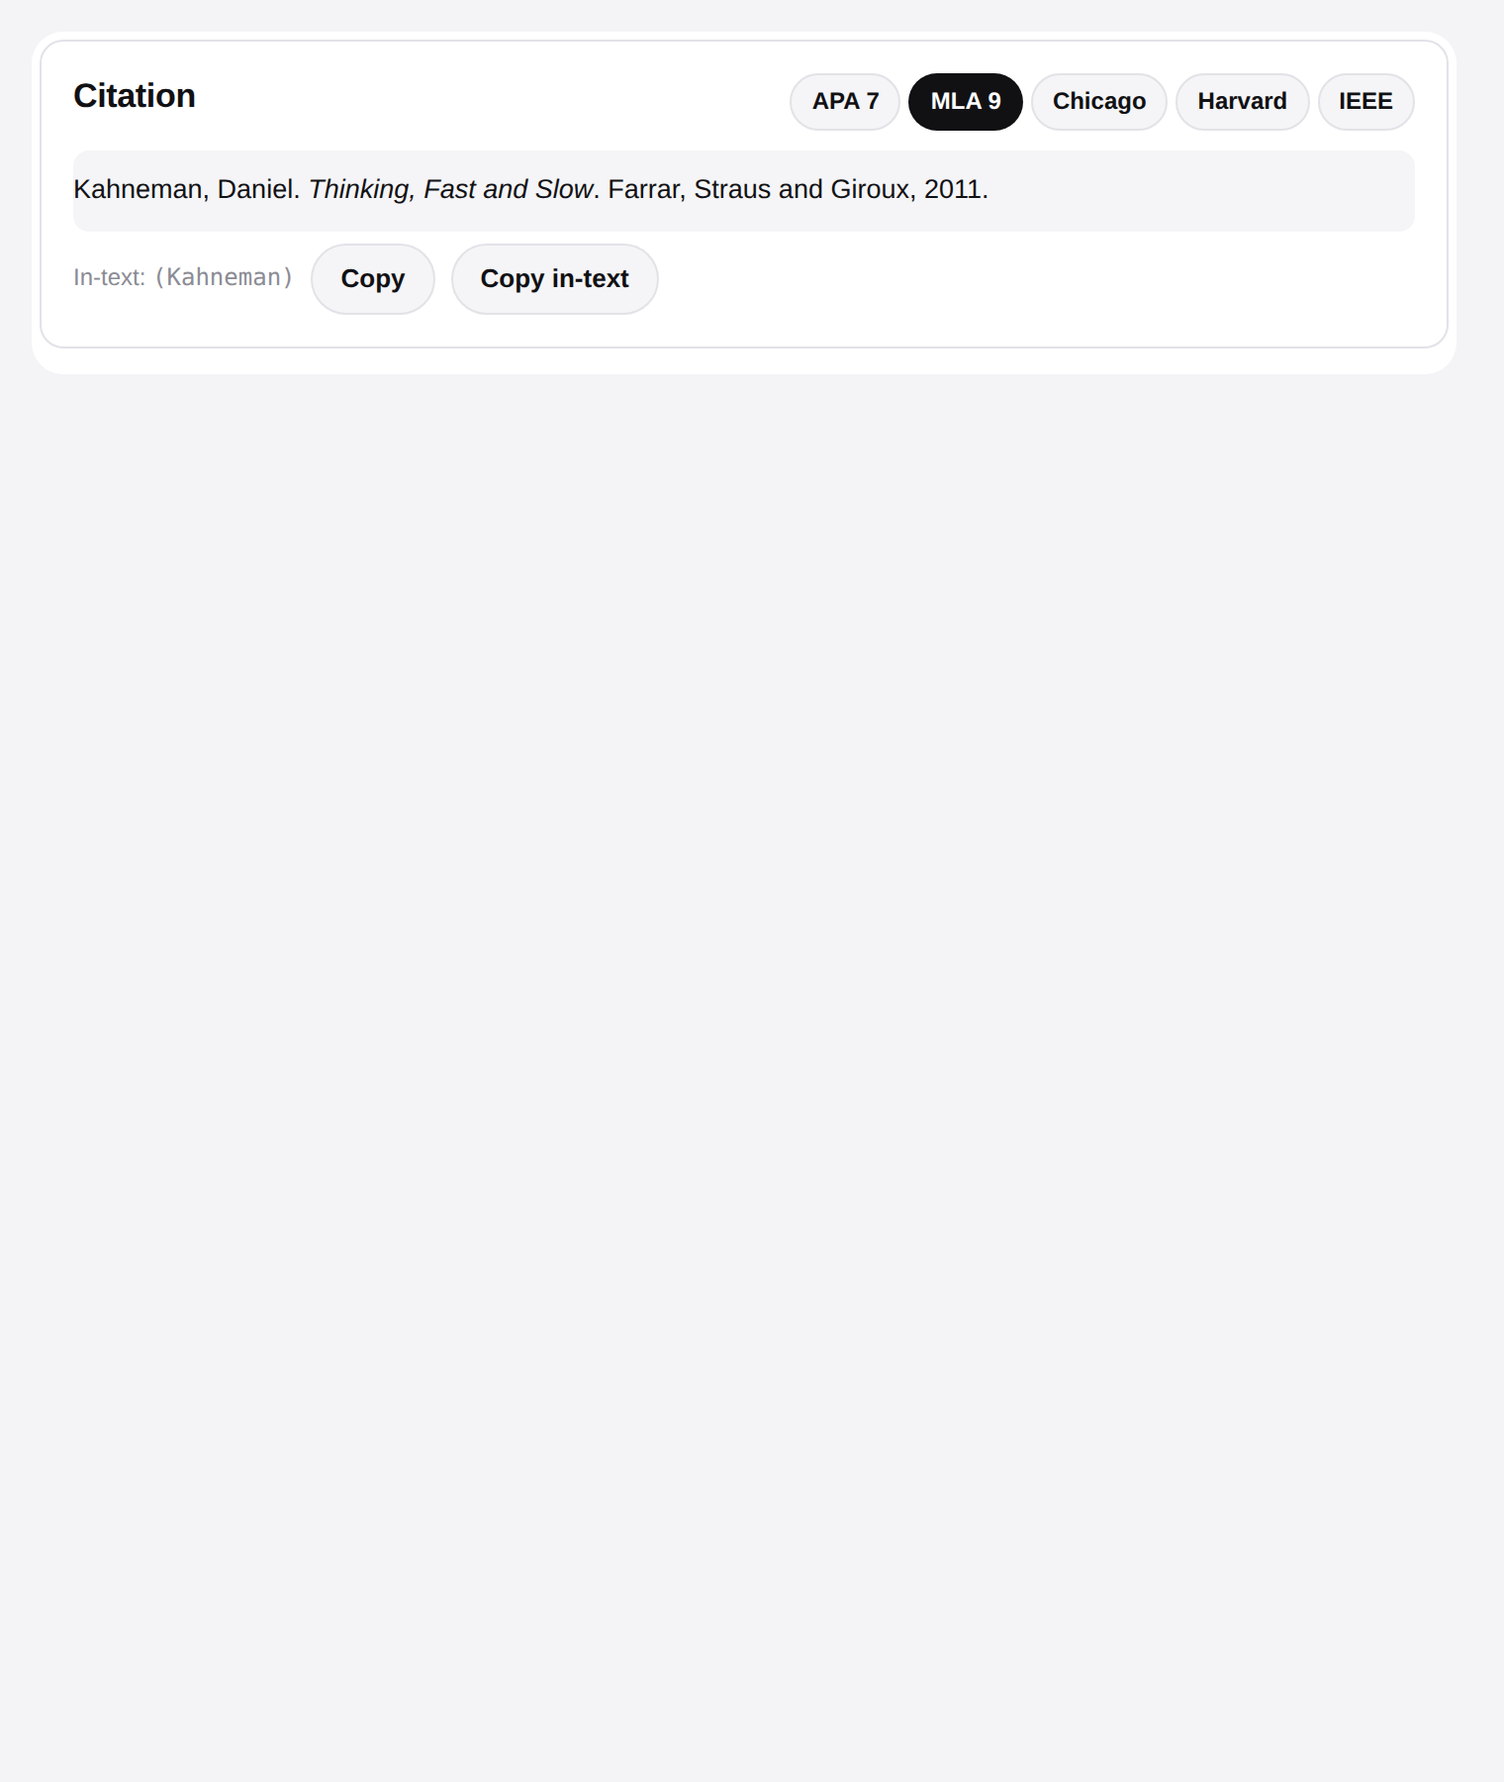
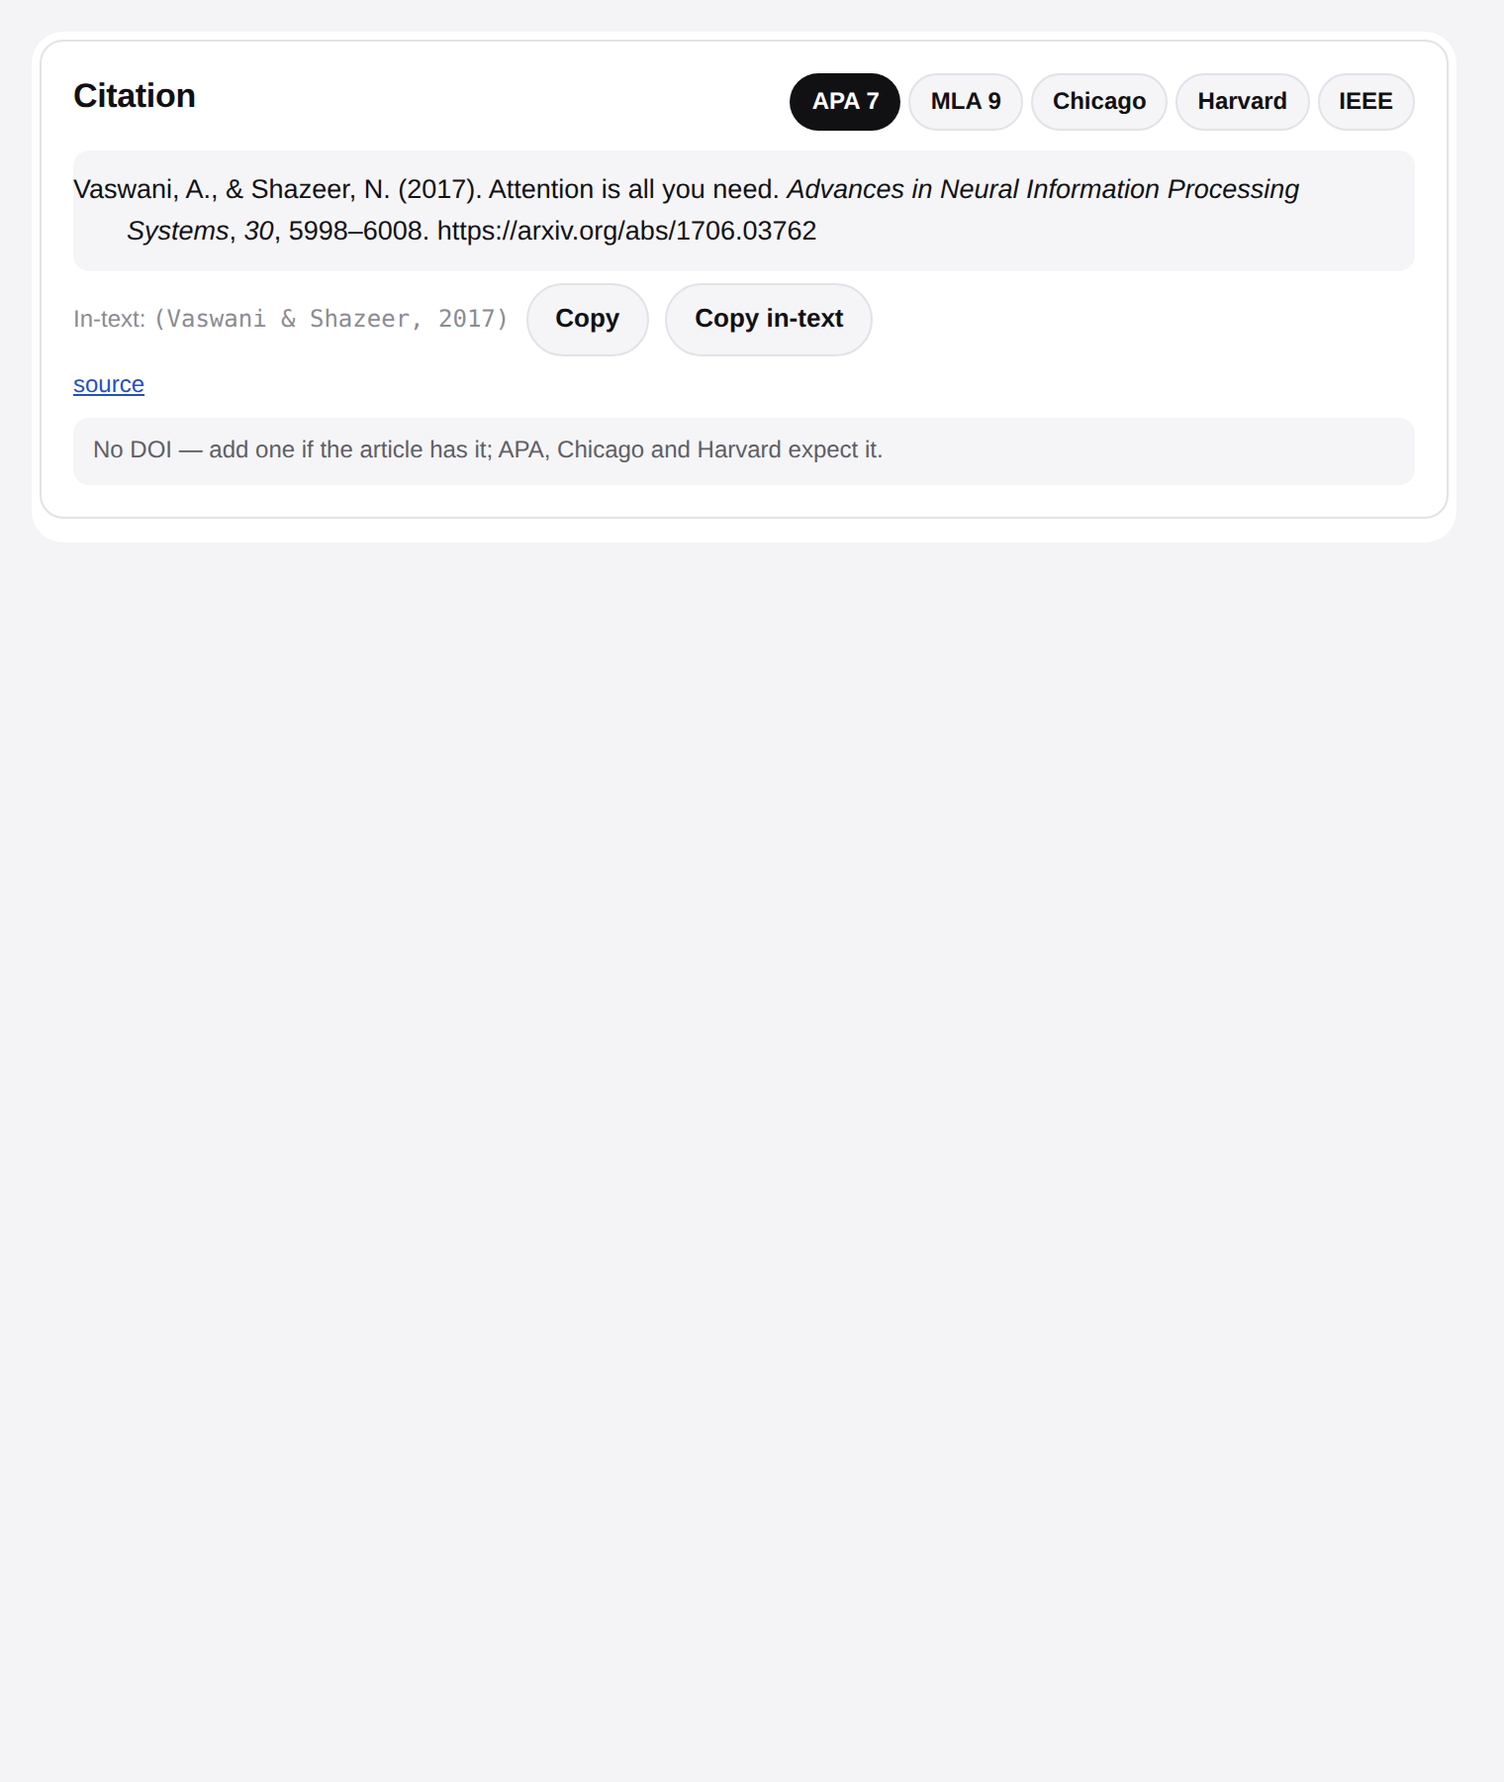
Lead Verified Citations with reference checking
Formatting alone now overlaps native ChatGPT and OpenAI's Zotero plugin
(Oct 2026); checking whether references are real is still uncontested,
so the app's metadata now leads with that job.

- Subtitle "Check if references are real"; app description opens with
  verification and calls out AI-written bibliographies.
- verify_references is registered first and its description covers the
  phrases people use ("are these sources real", "did ChatGPT make these
  up", "check my references before I submit").
- format_citation is narrowed to user-supplied details and routes
  anything from memory to lookup_reference; lookup_reference retitled
  "Find the real paper or book".
- Zotero-library requests explicitly excluded; submission JSON swaps the
  DOI-lookup case for an AI-generated source list and the grammar
  negative for a Zotero-library negative (still 5 positive / 3 negative).
- Version 1.1.0; citations screenshots regenerated.

Claude-Session: https://claude.ai/code/session_01DhZseDquTDQ5Xi2zTahsrr

diff --git a/chatgpt-apps/src/apps/citations/server.ts b/chatgpt-apps/src/apps/citations/server.ts
@@ -56,11 +56,11 @@ interface ExportPayload { refs: Reference[]; format: "bibtex" | "ris" | "txt"; s
 export const citationsApp = defineApp({
   slug: "citations",
   name: "Verified Citations",
-  version: "1.0.0",
-  subtitle: "Checked APA/MLA citations",
+  version: "1.1.0",
+  subtitle: "Check if references are real",
   category: "EDUCATION",
   description:
-    "Formats citations in APA 7, MLA 9, Chicago, Harvard and IEEE from real bibliographic data, looks papers up in Crossref and OpenAlex by title or DOI, flags references that don't exist, and exports BibTeX/RIS. Built to stop invented references: every lookup result links to a resolvable DOI.",
+    "Checks whether references are real. Paste a bibliography — including one ChatGPT or another AI wrote — and each entry is matched against Crossref and OpenAlex (170M+ scholarly records) and marked verified, likely or not found, with the real DOI and a corrected citation. Also finds the real paper behind a half-remembered title, formats APA 7, MLA 9, Chicago, Harvard and IEEE, and exports BibTeX/RIS.",
   files: {
     export: (p: ExportPayload) => {
       const body = p.format === "bibtex" ? toBibtex(p.refs) : p.format === "ris" ? toRis(p.refs) : p.refs.map((r) => format(r, p.style).text).sort().join("\n\n") + "\n";
@@ -69,13 +69,13 @@ export const citationsApp = defineApp({
     },
   },
   samples: [
+    { tool: "verify_references", args: { references: ["LeCun, Y., Bengio, Y., & Hinton, G. (2015). Deep learning. Nature, 521(7553), 436-444.", "Smith, J. (2021). Quantum gardening for beginners. Journal of Imaginary Botany, 12(3), 45-67."], style: "apa" } },
     {
       tool: "format_citation",
       args: { style: "apa", reference: { type: "journal-article", authors: [{ family: "Vaswani", given: "Ashish" }, { family: "Shazeer", given: "Noam" }], title: "Attention is all you need", containerTitle: "Advances in Neural Information Processing Systems", year: 2017, volume: "30", pages: "5998-6008", url: "https://arxiv.org/abs/1706.03762" } },
     },
     { tool: "format_citation", args: { style: "mla", reference: { type: "book", authors: [{ family: "Kahneman", given: "Daniel" }], title: "Thinking, Fast and Slow", publisher: "Farrar, Straus and Giroux", place: "New York", year: 2011 } } },
     { tool: "lookup_reference", args: { query: "10.1038/nature14539", style: "apa" } },
-    { tool: "verify_references", args: { references: ["LeCun, Y., Bengio, Y., & Hinton, G. (2015). Deep learning. Nature, 521(7553), 436-444."], style: "apa" } },
     { tool: "export_bibliography", args: { format: "bibtex", references: [{ type: "journal-article", authors: [{ family: "LeCun", given: "Yann" }], title: "Deep learning", containerTitle: "Nature", year: 2015, volume: "521", issue: "7553", pages: "436-444", doi: "10.1038/nature14539" }] } },
     { tool: "format_citation", args: { style: "apa", reference: { type: "book", authors: [], title: "" } }, expectError: true },
   ],
@@ -84,81 +84,15 @@ export const citationsApp = defineApp({
       uri: WIDGET_URI,
       name: "Citations widget",
       html: widgetHtml("citations"),
-      description: "Shows formatted citations with a style switcher, copy buttons, verification badges (verified / likely / not found) with DOI links, and export downloads. Don't repeat the full citations; summarize status.",
+      description: "Shows reference-check results with verified / likely / not-found badges and DOI links, plus formatted citations with a style switcher, copy buttons and export downloads. Summarize which references could not be verified; don't repeat the full citations.",
     });
-
-    server.registerTool(
-      "format_citation",
-      {
-        title: "Format a citation",
-        description:
-          "Use this when the user has the details of a source and wants it cited correctly — e.g. \"cite this in APA\", \"MLA citation for this book\", \"format this reference in Chicago style\", \"give me the in-text citation\". Produces the reference-list entry and in-text form in APA 7, MLA 9, Chicago 17, Harvard and IEEE from structured fields. If the user only has a title or DOI, use lookup_reference first so the details are real.",
-        inputSchema: {
-          reference: referenceSchema,
-          style: styleEnum.describe("Primary style to show"),
-        },
-        outputSchema: {
-          view: z.literal("citation"),
-          style: styleEnum,
-          entry: formattedSchema,
-          styles: allStylesSchema,
-          reference: refOutSchema,
-          tips: z.array(z.string()),
-        },
-        annotations: READ_ONLY,
-        _meta: uiToolMeta(WIDGET_URI, { invoking: "Formatting citation", invoked: "Citation formatted" }),
-      },
-      async ({ reference, style }) => {
-        try {
-          if (!reference.title.trim()) return fail("title is required");
-          const styles = formatAll(reference as Reference);
-          const structured = { view: "citation" as const, style, entry: styles[style], styles, reference: refOut(reference as Reference), tips: tips(reference as Reference) };
-          return ok(`${STYLE_LABEL[style]} reference: ${styles[style].text}\nIn-text: ${styles[style].inText}${structured.tips.length ? `\nNotes: ${structured.tips.join(" ")}` : ""}\nThe widget shows all five styles with copy buttons.`, structured);
-        } catch (e) {
-          return fail((e as Error).message);
-        }
-      },
-    );
-
-    server.registerTool(
-      "lookup_reference",
-      {
-        title: "Look up a paper or book",
-        description:
-          "Use this when the user wants a citation but only has a title, author/year, DOI or a half-remembered reference — e.g. \"cite the 2015 Nature deep learning paper by LeCun\", \"find the DOI for Attention Is All You Need\", \"APA citation for this DOI\", \"is this a real paper?\". Searches Crossref and OpenAlex (170M+ records) and returns real metadata with a resolvable DOI, formatted in the chosen style. Never invent a citation when this tool is available.",
-        inputSchema: {
-          query: z.string().min(3).max(500).describe("Title, DOI, or free-text reference"),
-          style: styleEnum.optional().describe("Default apa"),
-          rows: z.number().int().min(1).max(10).optional().describe("Max candidates (default 5)"),
-        },
-        outputSchema: {
-          view: z.literal("lookup"),
-          query: z.string(),
-          style: styleEnum,
-          candidates: z.array(z.object({ score: z.number(), source: z.string(), citedBy: z.number().optional(), reference: refOutSchema, entry: formattedSchema, styles: allStylesSchema })),
-          error: z.string().optional(),
-          summary: z.string(),
-        },
-        annotations: READ_ONLY_OPEN_WORLD,
-        _meta: uiToolMeta(WIDGET_URI, { invoking: "Searching Crossref", invoked: "Lookup complete" }),
-      },
-      async ({ query, style, rows }) => {
-        const st = style ?? "apa";
-        const r = await lookup(query, { rows: rows ?? 5, mailto: MAILTO });
-        const candidates = r.candidates.map((c) => ({ score: Math.round(c.score * 100) / 100, source: c.source, ...(c.citedBy != null ? { citedBy: c.citedBy } : {}), reference: refOut(c.ref), entry: format(c.ref, st), styles: formatAll(c.ref) }));
-        const summary = candidates.length
-          ? `Top match (${Math.round(candidates[0].score * 100)}% similar${candidates[0].citedBy != null ? `, cited ${candidates[0].citedBy} times` : ""}): ${candidates[0].entry.text}` + (candidates.length > 1 ? ` ${candidates.length - 1} other candidate(s) in the widget.` : "")
-          : r.error ? `Lookup unavailable: ${r.error}. Tell the user the source could not be checked right now rather than guessing.` : `No records matched "${query}". The source may not exist, or the title may be wrong — ask the user for more details.`;
-        return ok(summary, { view: "lookup" as const, query, style: st, candidates, ...(r.error ? { error: r.error } : {}), summary });
-      },
-    );
 
     server.registerTool(
       "verify_references",
       {
-        title: "Verify a reference list",
+        title: "Check if references are real",
         description:
-          "Use this when the user pastes one or more references and wants to know whether they are real — e.g. \"are these citations real?\", \"check my bibliography\", \"verify these references exist\", \"did ChatGPT make these up?\". Each line is matched against Crossref/OpenAlex and labelled verified, likely, or not found, with the real DOI and a corrected citation. Also use it on any reference list you generate yourself before presenting it.",
+          "Use this when the user wants to know whether citations or references are real, accurate or made up — e.g. \"are these sources real?\", \"check my references before I submit\", \"did ChatGPT make these citations up?\", \"verify my bibliography\", \"fact-check these citations\", \"is this paper real?\". Matches each reference against Crossref and OpenAlex (170M+ scholarly records) and labels it verified, likely (details differ) or not found, with the real DOI and a corrected citation. Also use this on any reference list you wrote yourself before presenting it, and whenever a source you cited is questioned. Not for searching the user's own Zotero library.",
         inputSchema: {
           references: z.array(z.string().min(5).max(1000)).min(1).max(40).describe("One reference per item, as the user pasted them"),
           style: styleEnum.optional().describe("Style for corrected citations (default apa)"),
@@ -206,11 +140,77 @@ export const citationsApp = defineApp({
     );
 
     server.registerTool(
+      "format_citation",
+      {
+        title: "Format a citation",
+        description:
+          "Use this when the user has supplied the complete details of a source themselves and only needs them formatted — e.g. \"format this in APA: [authors, title, journal, year…]\", \"turn this reference into MLA\", \"give me the in-text citation for this book\". Produces the reference-list entry and in-text form in APA 7, MLA 9, Chicago 17, Harvard and IEEE. If any detail would come from memory, or the user only has a title or DOI, call lookup_reference instead so the citation matches a real record.",
+        inputSchema: {
+          reference: referenceSchema,
+          style: styleEnum.describe("Primary style to show"),
+        },
+        outputSchema: {
+          view: z.literal("citation"),
+          style: styleEnum,
+          entry: formattedSchema,
+          styles: allStylesSchema,
+          reference: refOutSchema,
+          tips: z.array(z.string()),
+        },
+        annotations: READ_ONLY,
+        _meta: uiToolMeta(WIDGET_URI, { invoking: "Formatting citation", invoked: "Citation formatted" }),
+      },
+      async ({ reference, style }) => {
+        try {
+          if (!reference.title.trim()) return fail("title is required");
+          const styles = formatAll(reference as Reference);
+          const structured = { view: "citation" as const, style, entry: styles[style], styles, reference: refOut(reference as Reference), tips: tips(reference as Reference) };
+          return ok(`${STYLE_LABEL[style]} reference: ${styles[style].text}\nIn-text: ${styles[style].inText}${structured.tips.length ? `\nNotes: ${structured.tips.join(" ")}` : ""}\nThe widget shows all five styles with copy buttons.`, structured);
+        } catch (e) {
+          return fail((e as Error).message);
+        }
+      },
+    );
+
+    server.registerTool(
+      "lookup_reference",
+      {
+        title: "Find the real paper or book",
+        description:
+          "Use this when the user needs the real source behind a title, author and year, DOI or half-remembered reference — e.g. \"find the actual 2015 Nature paper by LeCun\", \"what's the DOI for Attention Is All You Need\", \"cite the paper that introduced transformers\", \"APA citation for this DOI\". Searches Crossref and OpenAlex (170M+ scholarly records) and returns real metadata with a resolvable DOI, formatted in the chosen style. Use this instead of citing from memory. To check a whole list of references, use verify_references.",
+        inputSchema: {
+          query: z.string().min(3).max(500).describe("Title, DOI, or free-text reference"),
+          style: styleEnum.optional().describe("Default apa"),
+          rows: z.number().int().min(1).max(10).optional().describe("Max candidates (default 5)"),
+        },
+        outputSchema: {
+          view: z.literal("lookup"),
+          query: z.string(),
+          style: styleEnum,
+          candidates: z.array(z.object({ score: z.number(), source: z.string(), citedBy: z.number().optional(), reference: refOutSchema, entry: formattedSchema, styles: allStylesSchema })),
+          error: z.string().optional(),
+          summary: z.string(),
+        },
+        annotations: READ_ONLY_OPEN_WORLD,
+        _meta: uiToolMeta(WIDGET_URI, { invoking: "Searching Crossref", invoked: "Lookup complete" }),
+      },
+      async ({ query, style, rows }) => {
+        const st = style ?? "apa";
+        const r = await lookup(query, { rows: rows ?? 5, mailto: MAILTO });
+        const candidates = r.candidates.map((c) => ({ score: Math.round(c.score * 100) / 100, source: c.source, ...(c.citedBy != null ? { citedBy: c.citedBy } : {}), reference: refOut(c.ref), entry: format(c.ref, st), styles: formatAll(c.ref) }));
+        const summary = candidates.length
+          ? `Top match (${Math.round(candidates[0].score * 100)}% similar${candidates[0].citedBy != null ? `, cited ${candidates[0].citedBy} times` : ""}): ${candidates[0].entry.text}` + (candidates.length > 1 ? ` ${candidates.length - 1} other candidate(s) in the widget.` : "")
+          : r.error ? `Lookup unavailable: ${r.error}. Tell the user the source could not be checked right now rather than guessing.` : `No records matched "${query}". The source may not exist, or the title may be wrong — ask the user for more details.`;
+        return ok(summary, { view: "lookup" as const, query, style: st, candidates, ...(r.error ? { error: r.error } : {}), summary });
+      },
+    );
+
+    server.registerTool(
       "export_bibliography",
       {
         title: "Export bibliography (BibTeX / RIS / text)",
         description:
-          "Use this when the user wants their references as a file for Zotero, Mendeley, EndNote, LaTeX or Word — e.g. \"export these as BibTeX\", \"give me a .bib file\", \"RIS file for EndNote\", \"download my works-cited list\". Takes structured references (from lookup_reference or format_citation results) and returns a download link.",
+          "Use this when the user wants their references as a file for Zotero, Mendeley, EndNote, LaTeX or Word — e.g. \"export these as BibTeX\", \"give me a .bib file\", \"RIS file for EndNote\", \"download my works-cited list\". Takes structured references (from verify_references, lookup_reference or format_citation results) and returns a download link. Not for searching or editing the user's Zotero library.",
         inputSchema: {
           references: z.array(referenceSchema).min(1).max(200),
           format: z.enum(["bibtex", "ris", "txt"]),

diff --git a/chatgpt-apps/README.md b/chatgpt-apps/README.md
@@ -4,7 +4,7 @@ Five ChatGPT apps (Apps SDK / MCP Apps — what the directory now calls *plugins
 
 | App | Endpoint | Tools | The gap it fills |
 | --- | --- | --- | --- |
-| **Verified Citations** | `/citations/mcp` | `format_citation`, `lookup_reference`, `verify_references`, `export_bibliography` | Scribbr / Citation Machine get 10M+ visits a month; studies find ChatGPT fabricates 18–38 % of references. Every lookup resolves to a real DOI via Crossref/OpenAlex. No citation app in the directory. |
+| **Verified Citations** | `/citations/mcp` | `verify_references`, `lookup_reference`, `format_citation`, `export_bibliography` | Leads with "are these references real?": studies find ChatGPT fabricates 18–38 % of references, and every check resolves to a real DOI via Crossref/OpenAlex. Formatting alone now overlaps native ChatGPT and OpenAI's Zotero plugin (Oct 2026); verification is still uncontested. |
 | **Calendar Invite & Date Math** | `/calendar/mcp` | `create_calendar_invite`, `calculate_date`, `convert_time_zones`, `find_meeting_times` | Turns a plan into a real .ics + Google/Outlook links with no OAuth; exact business-day and time-zone math where LLMs are documented to slip. |
 | **Timesheet & Overtime Calculator** | `/timesheet/mcp` | `calculate_timesheet`, `add_hours` | Hourly workers and small businesses total hours weekly; breaks, overnight shifts, rounding, 40 h / 8-12 h overtime rules, printable PDF. No competitor found. |
 | **Mortgage & Loan Calculator** | `/loan/mcp` | `calculate_mortgage_payment`, `calculate_loan_payment`, `calculate_home_affordability`, `compare_refinance` | "mortgage calculator" alone is ~3.4 M searches/month; 360-row amortization is error-prone in prose. Interactive breakdown + chart + CSV schedule. |
